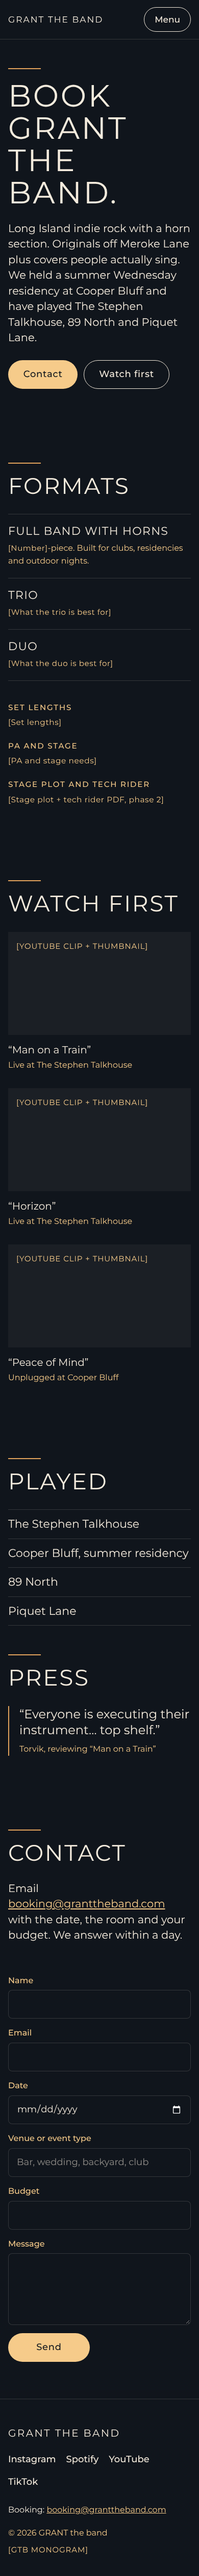
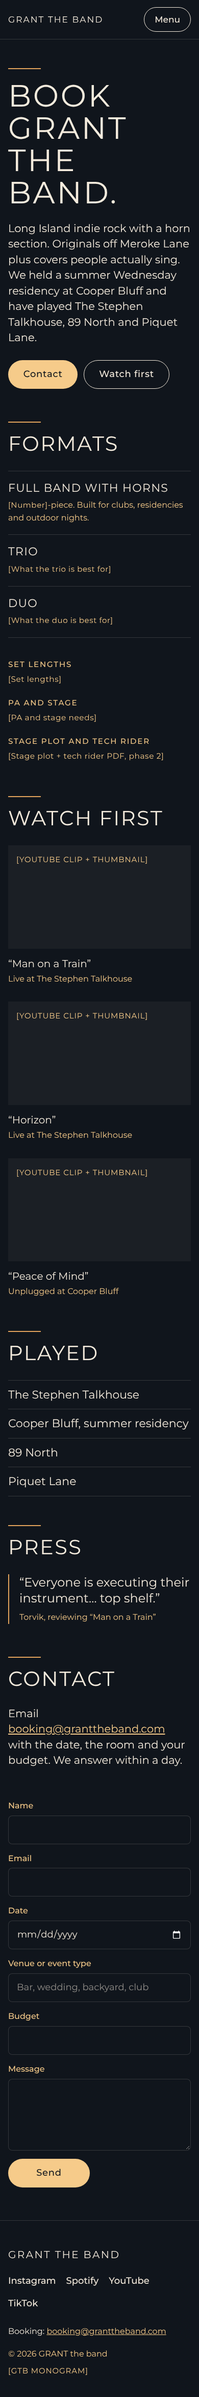
Desktop review: hero background layer, statement titles, tighter spacing, music links, preview tickets
- Hero media/placeholder is a full-bleed background layer with the scrim; logo
  capped at 40vw on desktop; buttons in the lower third
- Section titles 40px phone / 56px desktop; MEROKE LANE, LIVE, FIRST TO KNOW.
- One 64/96px gap between sections, no extra padding stacked on top
- Music: four songs in quotes, one gold Listen button, small Spotify / Apple
  Music / YouTube text links, text centered against the cover
- Deploy previews (CONTEXT=deploy-preview) render two sample tickets with
  [DATE] while shows.json is empty; never on production, no JSON-LD
- Two button styles only; placeholder Listen uses the primary style
- Screenshots at 390, 1312x634 and 1440; old sample-shows shots removed

Claude-Session: https://claude.ai/code/session_01W6jjmem6fid2ThtCrqmyVk

diff --git a/src/lib/shows.ts b/src/lib/shows.ts
@@ -6,6 +6,8 @@ export type Show = {
   venue: string;
   town: string; // "Amagansett, NY"
   url: string;
+  endTime?: string; // HH:MM, 24h, optional
+  sample?: boolean; // deploy-preview sample: date unknown, never on production
 };
 
 const TZ = 'America/New_York';
@@ -16,11 +18,21 @@ function todayLocal(now = new Date()): string {
   return new Intl.DateTimeFormat('en-CA', { timeZone: TZ }).format(now);
 }
 
+// Netlify deploy previews only: two sample tickets so the design can be reviewed while
+// shows.json is empty. CONTEXT is set by Netlify at build time; it is "production" on main
+// and unset locally, so these never reach the live site.
+const PREVIEW_SAMPLES: Show[] = [
+  { date: '', time: '18:00', endTime: '21:00', venue: 'Cooper Bluff', town: 'Oyster Bay, NY', url: '', sample: true },
+  { date: '', time: '20:00', venue: 'The Stephen Talkhouse', town: 'Amagansett, NY', url: '', sample: true },
+];
+
 export function upcomingShows(now = new Date()): Show[] {
   const today = todayLocal(now);
-  return (showsData as Show[])
+  const real = (showsData as Show[])
     .filter((s) => s.date >= today)
     .sort((a, b) => (a.date + a.time).localeCompare(b.date + b.time));
+  if (real.length === 0 && process.env.CONTEXT === 'deploy-preview') return PREVIEW_SAMPLES;
+  return real;
 }
 
 function asUtcNoon(date: string): Date {
@@ -55,6 +67,22 @@ function nyOffset(date: string, time: string): string {
     .formatToParts(probe)
     .find((p) => p.type === 'timeZoneName')?.value; // "GMT-05:00"
   return name && name !== 'GMT' ? name.replace('GMT', '') : '+00:00';
+}
+
+// Ticket SET value: "8 PM", or "6 - 9 PM" for a range (matches the Canva ticket master).
+export function formatSet(show: Show): string {
+  const fmt = (t: string) => formatTime(t).toUpperCase().replace(/(AM|PM)$/, ' $1');
+  if (!show.time) return '';
+  if (!show.endTime) return fmt(show.time);
+  const start = fmt(show.time);
+  const end = fmt(show.endTime);
+  const sameHalf = start.slice(-2) === end.slice(-2);
+  return `${sameHalf ? start.slice(0, -3) : start} - ${end}`;
+}
+
+// Real shows only: samples have no date and must never reach search engines.
+export function showsJsonLd(shows: Show[], siteUrl: string) {
+  return shows.filter((s) => !s.sample).map((s) => musicEventJsonLd(s, siteUrl));
 }
 
 export function musicEventJsonLd(show: Show, siteUrl: string) {

diff --git a/src/styles/global.css b/src/styles/global.css
@@ -132,8 +132,9 @@ h3 {
   font-size: clamp(60px, 13vw, 144px);
 }
 
+/* Section titles: 40px phone, 56px max desktop. */
 .h2 {
-  font-size: clamp(44px, 8vw, 88px);
+  font-size: clamp(40px, 4.5vw, 56px);
 }
 
 /* Section title: 64 x 2 amber rule above, like the "NEXT STOP." master. */
@@ -178,20 +179,30 @@ h3 {
   letter-spacing: 0;
 }
 
-/* Sections */
+/* Sections: one gap between sections, 64px phone / 96px desktop, nothing taller.
+   Each section pads its top; the last one in <main> also pads its bottom. */
 
-.section {
-  padding-block: 72px;
+:root {
+  --section-gap: 64px;
 }
 
 @media (min-width: 720px) {
-  .section {
-    padding-block: 112px;
+  :root {
+    --section-gap: 96px;
   }
 }
 
+.section {
+  padding-block: var(--section-gap) 0;
+}
+
+/* last-of-type, not last-child: Astro can inline a <script> after the last section. */
+main > section.section:last-of-type:not(.compact) {
+  padding-bottom: var(--section-gap);
+}
+
 .section-head {
-  margin-bottom: 40px;
+  margin-bottom: 32px;
 }
 
 /* Buttons */
@@ -267,9 +278,10 @@ h3 {
 .ph-btn,
 .ph-btn:hover {
   cursor: default;
-  background: transparent;
-  color: var(--gold);
-  border-color: var(--gold);
+}
+
+.btn .ph-inline {
+  color: inherit;
 }
 
 .visually-hidden {

diff --git a/src/data/site.ts b/src/data/site.ts
@@ -39,7 +39,7 @@ export type PhotographerId = keyof typeof photographers;
 export const hero = {
   video: null as string | null, // e.g. '/media/hero-loop.mp4'
   poster: null as string | null, // e.g. '/media/hero.jpg'
-  alt: 'GRANT the band live',
+  alt: 'GRANT the band live', // add the photographer: 'GRANT the band live. Photo by @handle'
   credit: null as PhotographerId | null,
 };
 
@@ -61,6 +61,7 @@ export function creditsInUse(): { handle: string; url: string }[] {
 export const ep = {
   title: 'Meroke Lane',
   cover: null as string | null, // e.g. '/media/meroke-lane.jpg'
+  songs: ['Man on a Train', 'Waking Up', 'Horizon', 'Peace of Mind'],
   // Singles to start with, not the tracklist.
 };
 

diff --git a/CLAUDE.md b/CLAUDE.md
@@ -230,7 +230,7 @@ Hero video loop or photo (full band, golden hour), band photo for the photo band
 
 ## Ongoing maintenance
 
-- After every change on a PR branch: `npm run build && npm run screenshots`. That writes full-page Playwright (headless Chromium) screenshots of `/` and `/book` at 390x844, 1312x634 (laptop) and 1440x900 to `screenshots/` (`home-390.png`, `home-1312.png`, `home-1440.png`, `book-390.png`, `book-1312.png`, `book-1440.png`). Build with `CONTEXT=deploy-preview` so the sample tickets show, as on the preview. Commit them with the change and list the file names in a PR comment. The script fails on horizontal overflow. If a headless browser can't run in the environment, say so to Noah instead of skipping.
+- After every change on a PR branch: `npm run build:preview && npm run screenshots`. That writes full-page Playwright (headless Chromium) screenshots of `/` and `/book` at 390x844, 1312x634 (laptop) and 1440x900 to `screenshots/` (`home-390.png`, `home-1312.png`, `home-1440.png`, `book-390.png`, `book-1312.png`, `book-1440.png`). Build with `CONTEXT=deploy-preview` so the sample tickets show, as on the preview. Commit them with the change and list the file names in a PR comment. The script fails on horizontal overflow. If a headless browser can't run in the environment, say so to Noah instead of skipping.
 
 - New show: Noah says "add 12/5 Talkhouse 8pm". Edit shows.json on a branch, open a PR, merge after Noah approves the preview.
 - Weekly: update now.json to the latest post.

diff --git a/README.md b/README.md
@@ -33,7 +33,7 @@ Links, the booking email, hero video, cover art and clip IDs all live in `src/da
 
 ## Screenshots
 
-`npm run build && npm run screenshots` saves full-page shots of `/` and `/book` at 390px and 1440px to `screenshots/`. Needs Playwright. Fails if a page scrolls sideways.
+`npm run build:preview && npm run screenshots` saves full-page shots of `/` and `/book` at 390x844, 1312x634 and 1440x900 to `screenshots/`. `build:preview` sets `CONTEXT=deploy-preview`, like a Netlify deploy preview, so the two sample tickets render while `shows.json` is empty. Needs Playwright. Fails if a page scrolls sideways.
 
 ## Hero video
 
